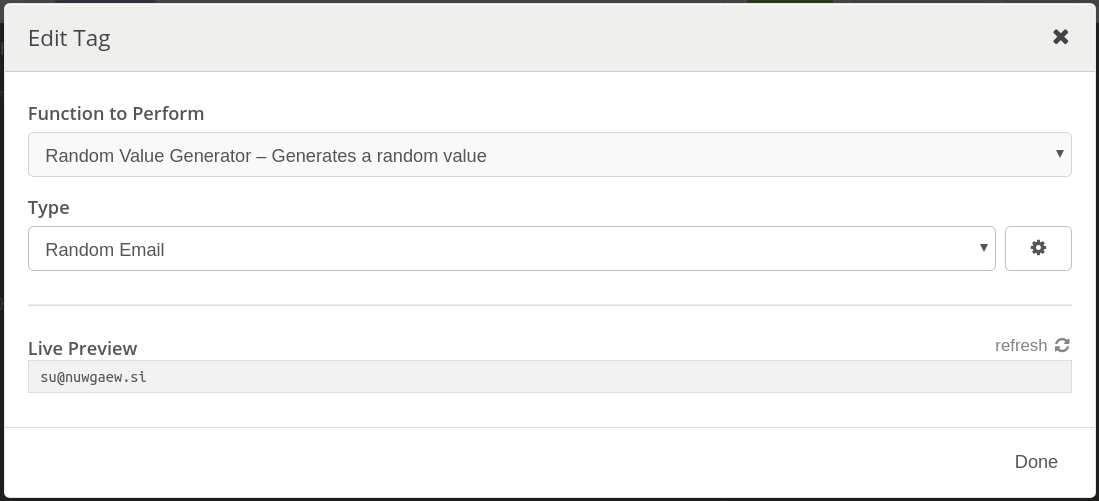
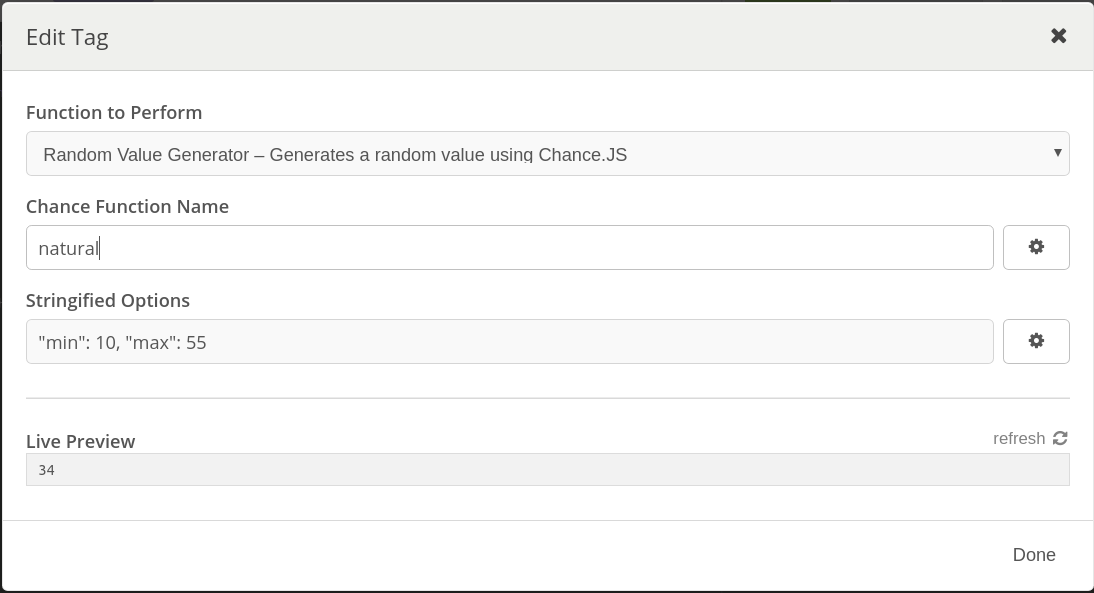
using only chance custom function

diff --git a/index.js b/index.js
@@ -2,40 +2,23 @@ const Chance = require('chance');
 const chance = new Chance();
 
 module.exports.templateTags = [{
-  name: 'random',
-  displayName: 'Random Value Generator',
-  description: 'Generates a random value',
+  name: 'chance',
+  displayName: 'Chance Value Generator',
+  description: 'Generates a random value using Chance.JS',
   args: [
     {
-      displayName: 'Type',
-      type: 'enum',
-      options: [
-        {
-          displayName: 'Random Email',
-          value: 'email'
-        },
-        {
-          displayName: 'Random String',
-          value: 'string'
-        },
-        {
-          displayName: 'Random CPF',
-          value: 'cpf'
-        },
-        {
-          displayName: 'Random Natural Number',
-          value: 'natural'
-        },
-      ],
+      displayName: 'Chance Function Name',
+      type: 'string',
+      placeholder: 'natural',
+    },
+    {
+      displayName: 'Stringified Options',
+      type: 'string',
+      placeholder: '"min": 10, "max": 25',
     },
   ],
-  async run(context, type = 'email') {
-    switch (type) {
-      case 'email': return chance.email();
-      case 'string': return chance.string();
-      case 'cpf': return chance.cpf();
-      case 'natural': return chance.natural();
-      default: throw new Error('invalid type');
-    }
+  async run(context, func = 'natural', opt = '') {
+    const options = JSON.parse(`{ ${opt} }`);
+    return chance[func](options);
   }
 }];

diff --git a/README.md b/README.md
@@ -1,10 +1,13 @@
-# Insomnia Plugin - Random Generator
+# Insomnia Plugin - Chance
+## Random Value Generator
+
+Generates a random value from on [Chance.JS](http://chancejs.com/)
+
+### Args:
+- Function: The name of the Chance function to be called
+
+- Options: Stringified arguments to be used inside chance function
+
+### Example:
 
 ![Screenshot](/readme-preview.png?raw=true)
-
-## Generators:
-### Email
-### String
-### CPF
-### Natural Number
-
